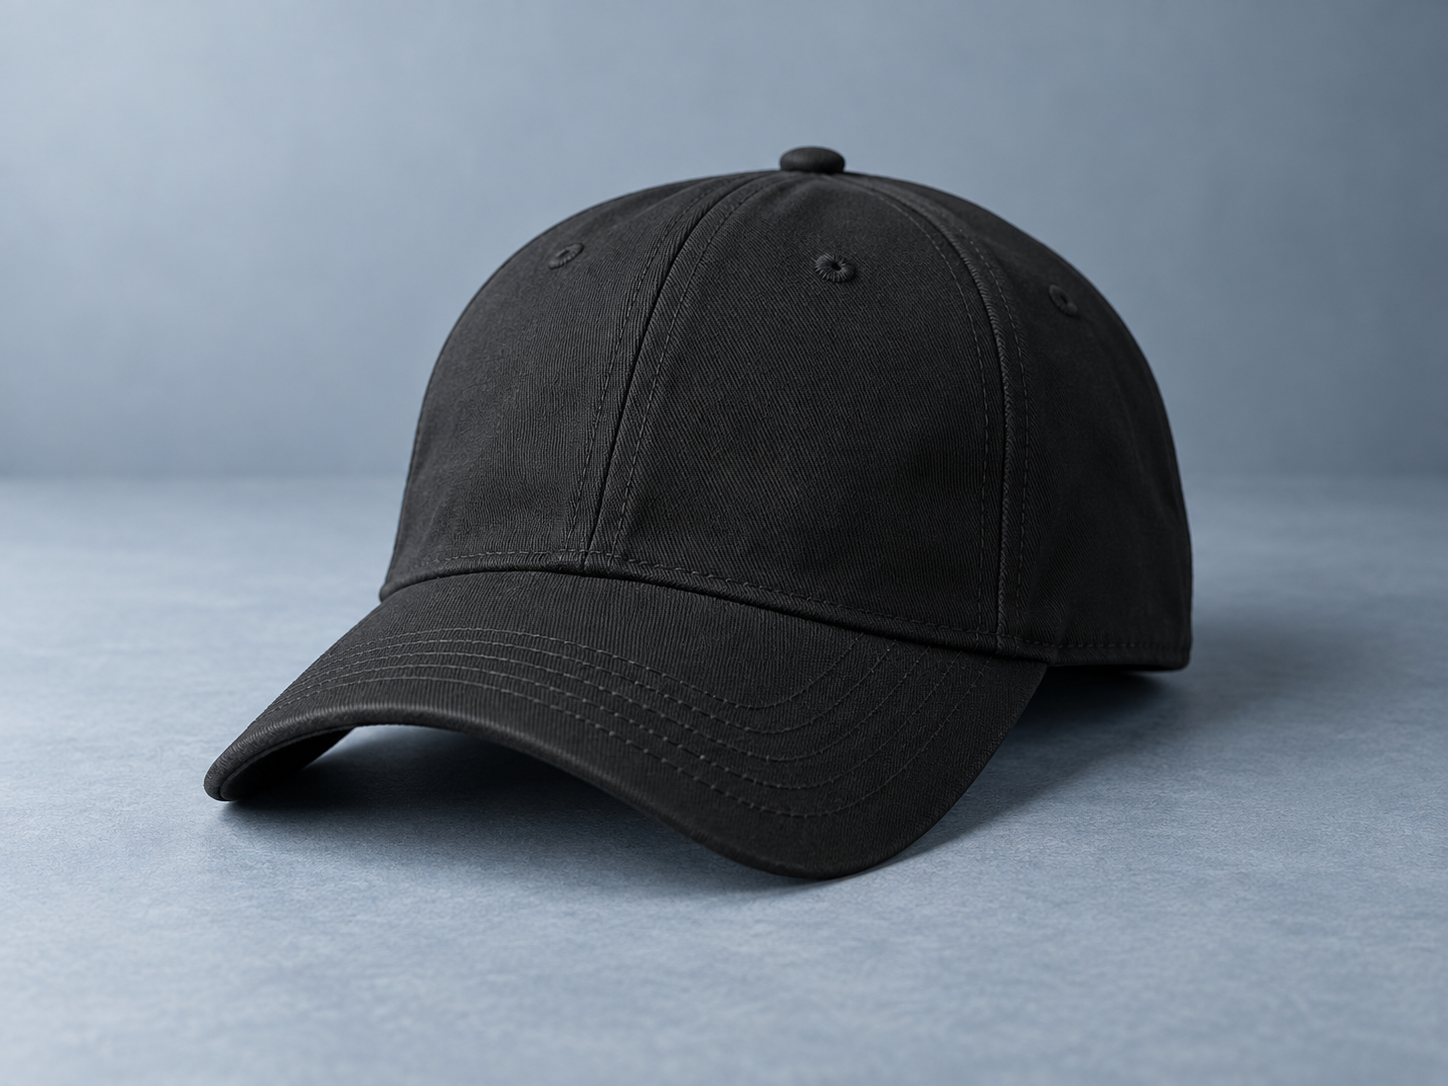
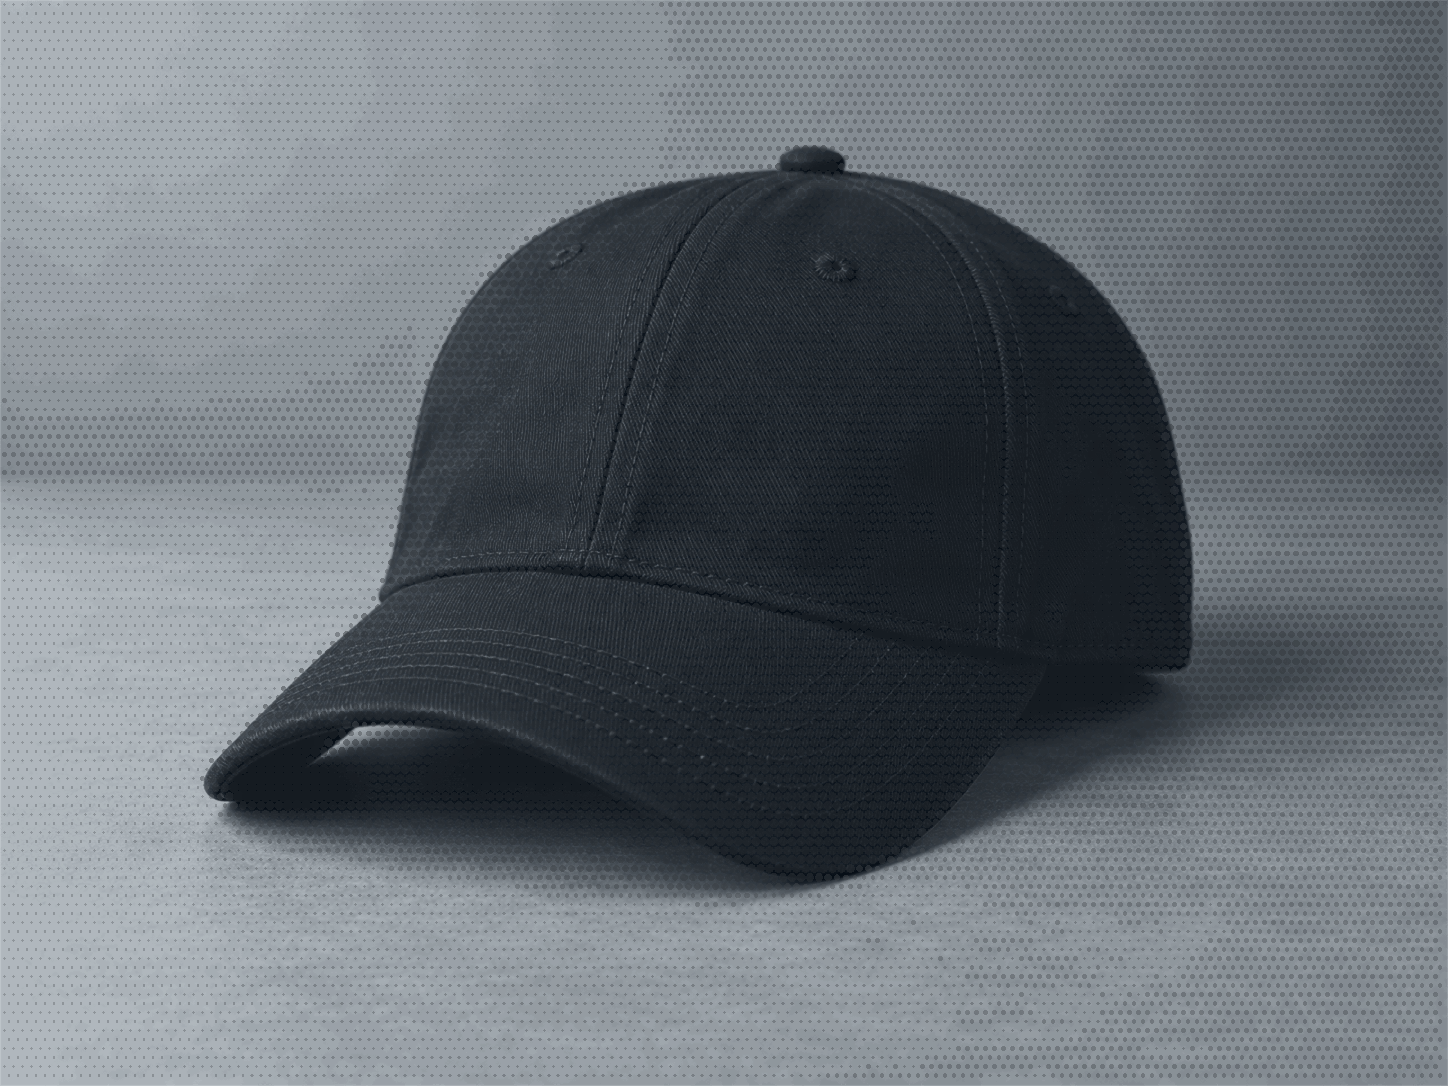
feat: bake halftone style into shop images

diff --git a/app/globals.css b/app/globals.css
@@ -406,31 +406,6 @@ textarea {
   max-width: 100%;
   max-height: 560px;
   object-fit: contain;
-  filter: grayscale(.82) contrast(1.28) brightness(.9);
-  mix-blend-mode: screen;
-}
-
-.hero-gift-panel::before {
-  content: "";
-  position: absolute;
-  inset: 0;
-  z-index: 2;
-  pointer-events: none;
-  background:
-    radial-gradient(circle, rgba(244, 247, 249, .42) 0 1.25px, transparent 1.45px),
-    radial-gradient(circle, rgba(4, 16, 28, .58) 0 1px, transparent 1.2px);
-  background-position: center, calc(50% + 4px) calc(50% + 4px);
-  background-size: 8px 8px, 8px 8px;
-  mix-blend-mode: overlay;
-  opacity: .72;
-  mask-image: url("/hero-credit-gift.png");
-  mask-position: center;
-  mask-repeat: no-repeat;
-  mask-size: contain;
-  -webkit-mask-image: url("/hero-credit-gift.png");
-  -webkit-mask-position: center;
-  -webkit-mask-repeat: no-repeat;
-  -webkit-mask-size: contain;
 }
 
 .section-block {
@@ -476,33 +451,6 @@ textarea {
   aspect-ratio: 4 / 3;
   overflow: hidden;
   background: #101F37;
-}
-
-.product-media img {
-  filter: grayscale(.88) contrast(1.32) brightness(.9);
-}
-
-.product-media::before {
-  content: "";
-  position: absolute;
-  inset: 0;
-  z-index: 2;
-  pointer-events: none;
-  background:
-    radial-gradient(circle, rgba(244, 247, 249, .5) 0 1.1px, transparent 1.35px),
-    radial-gradient(circle, rgba(4, 16, 28, .54) 0 1px, transparent 1.25px);
-  background-position: 0 0, 4px 4px;
-  background-size: 8px 8px, 8px 8px;
-  mix-blend-mode: overlay;
-  opacity: .72;
-  mask-image: var(--halftone-mask);
-  mask-position: center;
-  mask-repeat: no-repeat;
-  mask-size: cover;
-  -webkit-mask-image: var(--halftone-mask);
-  -webkit-mask-position: center;
-  -webkit-mask-repeat: no-repeat;
-  -webkit-mask-size: cover;
 }
 
 .checkout-form,

diff --git a/app/products/[slug]/page.tsx b/app/products/[slug]/page.tsx
@@ -1,6 +1,5 @@
 import Image from "next/image";
 import { notFound } from "next/navigation";
-import type { CSSProperties } from "react";
 import { SiteHeader } from "@/components/site-header";
 import { getPublicProductBySlug } from "@/lib/catalog";
 import { formatCredits, toPersianDigits } from "@/lib/persian";
@@ -28,14 +27,13 @@ export default async function ProductPage({ params }: { params: { slug: string }
     }
   } as const;
   const details = detailsByCategory[product.category.slug as keyof typeof detailsByCategory] ?? detailsByCategory.daily;
-  const mediaStyle = image ? ({ "--halftone-mask": `url("${image.url}")` } as CSSProperties) : undefined;
 
   return (
     <>
       <SiteHeader />
       <main className="shell pb-20">
         <section className="glass feature-card grid gap-8 p-8 lg:grid-cols-[.9fr_1.1fr]" data-chamfer="br" data-cut="44" data-radius="12" data-fillet="12">
-          <div className="product-media feature-card relative min-h-[420px]" style={mediaStyle} data-chamfer="tr" data-cut="30" data-radius="12" data-fillet="10">
+          <div className="product-media feature-card relative min-h-[420px]" data-chamfer="tr" data-cut="30" data-radius="12" data-fillet="10">
             {image ? <Image src={image.url} alt={image.alt} fill className="object-cover" priority /> : null}
           </div>
           <div className="space-y-6">

diff --git a/components/product-card.tsx b/components/product-card.tsx
@@ -1,18 +1,16 @@
 import Image from "next/image";
 import Link from "next/link";
-import type { CSSProperties } from "react";
 import { ArrowLeft, WalletCards } from "lucide-react";
 import { formatCredits } from "@/lib/persian";
 import type { PublicProduct } from "@/lib/demo-data";
 
 export function ProductCard({ product }: { product: PublicProduct }) {
   const image = product.images[0];
-  const mediaStyle = image ? ({ "--halftone-mask": `url("${image.url}")` } as CSSProperties) : undefined;
 
   return (
     <article className="product-shell">
       <Link href={`/products/${product.slug}`} className="product-card feature-card block" data-chamfer="tr" data-cut="30" data-radius="12" data-fillet="10">
-        <div className="product-media" style={mediaStyle}>
+        <div className="product-media">
           {image ? <Image src={image.url} alt={image.alt} fill className="object-cover" /> : null}
         </div>
         <div className="space-y-5 p-5">
